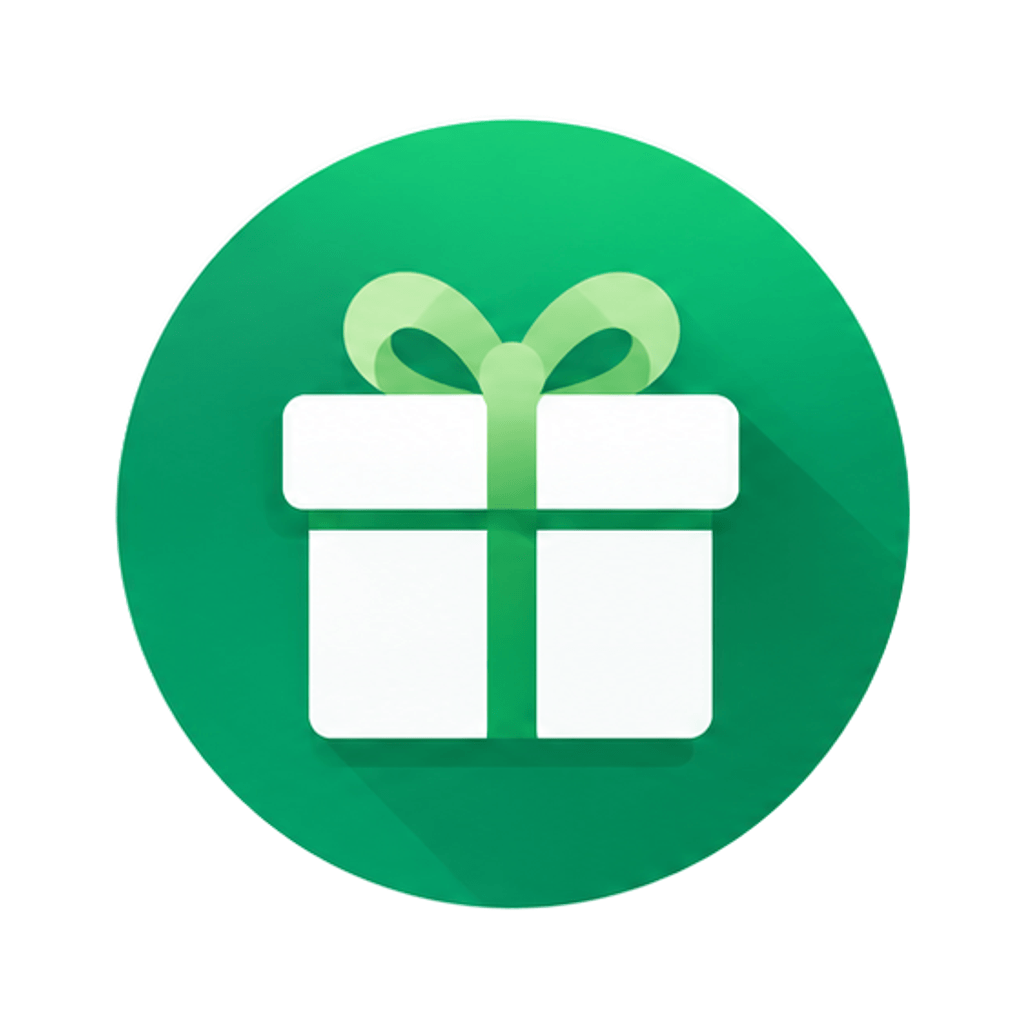
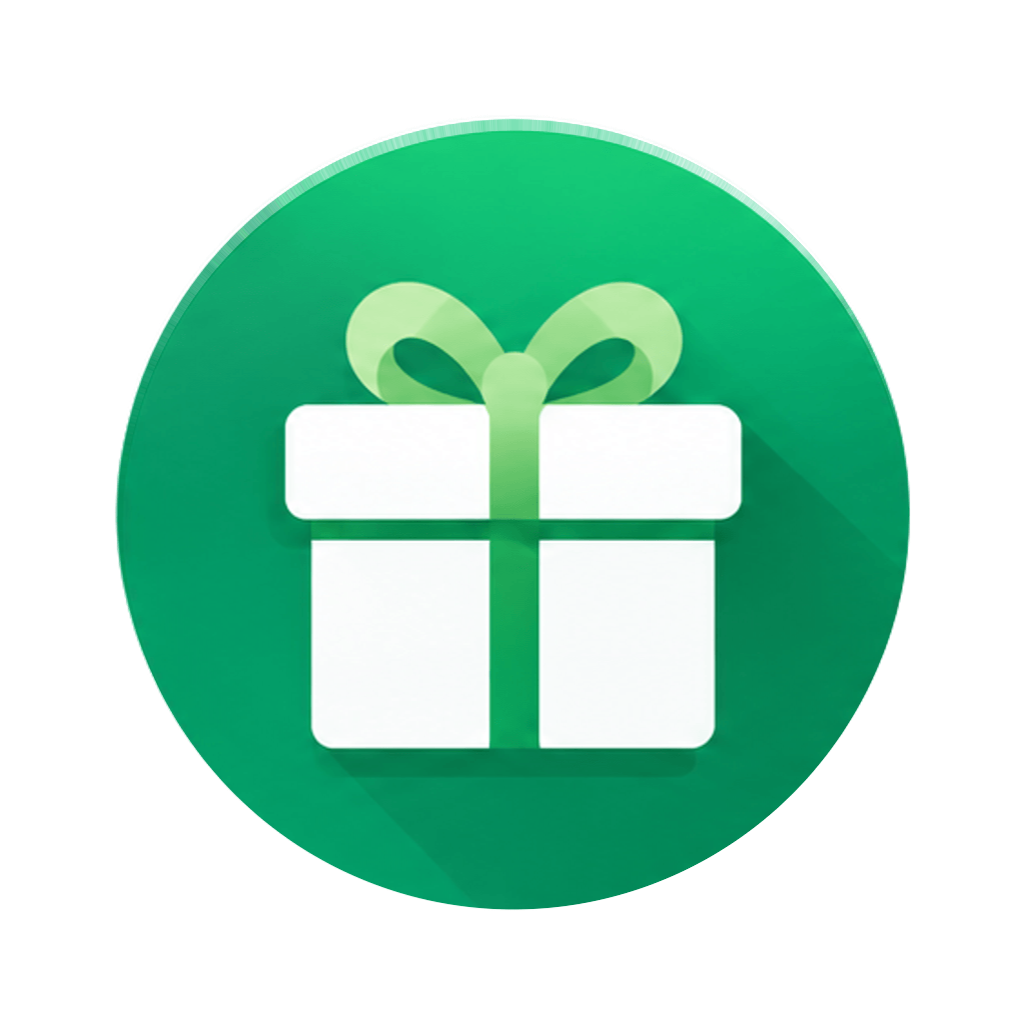
Sincroniza la mascota Clubi y el icono con la app de Caja
El regalo de la mascota quedaba +14% abajo en el logo plano y en las
insignias; se trae el recorte centrado que ya tiene PuntosClubCaja
(mismos PNG, byte a byte). Los archivos se renombran (-v2/-v3) porque
pisar un PNG con el mismo nombre no invalida la cache del navegador.
El manifest ahora declara el tamano real del icono (1024x1024).

diff --git a/src/app/(auth)/sign-in/page.tsx b/src/app/(auth)/sign-in/page.tsx
@@ -104,7 +104,7 @@ export default function SignInPage() {
         className="page-column page-form page-center no-scrollbar flex-1 overflow-y-auto px-7 pb-[calc(16px+env(safe-area-inset-bottom))] pt-[calc(8px+env(safe-area-inset-top))]"
       >
         <Image
-          src="/images/auth/hero.png"
+          src="/images/auth/hero-v3.png"
           alt=""
           width={430}
           height={210}

diff --git a/src/app/(app)/page.tsx b/src/app/(app)/page.tsx
@@ -353,7 +353,7 @@ function HomeHero({
           {/* El fondo del PNG esta pintado con greenCard exacto, asi que la
               mascota se funde con la tarjeta: se apoya en el borde, sin margen. */}
           <Image
-            src="/images/home/mascot.png"
+            src="/images/home/mascot-v2.png"
             alt=""
             width={118}
             height={152}

diff --git a/src/app/(app)/search-beneficiary/page.tsx b/src/app/(app)/search-beneficiary/page.tsx
@@ -85,7 +85,7 @@ export default function SearchBeneficiaryPage() {
         className="page-column page-form no-scrollbar flex-1 overflow-y-auto px-5 pb-[calc(20px+env(safe-area-inset-bottom))] pt-2"
       >
         <Image
-          src="/images/search/mascot.png"
+          src="/images/search/mascot-v2.png"
           alt=""
           width={390}
           height={236}

diff --git a/src/app/(app)/scanned-user/page.tsx b/src/app/(app)/scanned-user/page.tsx
@@ -483,7 +483,7 @@ function ScannedUserScreen() {
         {/* ponytail: se reusa la mascota de "Buscar Cliente" (misma pose, lupa
             con QR en vez de vacia) en lugar de pedir un PNG nuevo. */}
         <Image
-          src="/images/search/mascot.png"
+          src="/images/search/mascot-v2.png"
           alt=""
           width={390}
           height={220}

diff --git a/src/app/manifest.ts b/src/app/manifest.ts
@@ -11,6 +11,6 @@ export default function manifest(): MetadataRoute.Manifest {
     display: 'standalone',
     background_color: '#FBFBFC',
     theme_color: '#02875B',
-    icons: [{ src: '/images/icon.png', sizes: '512x512', type: 'image/png' }],
+    icons: [{ src: '/images/icon-v2.png', sizes: '1024x1024', type: 'image/png' }],
   };
 }
